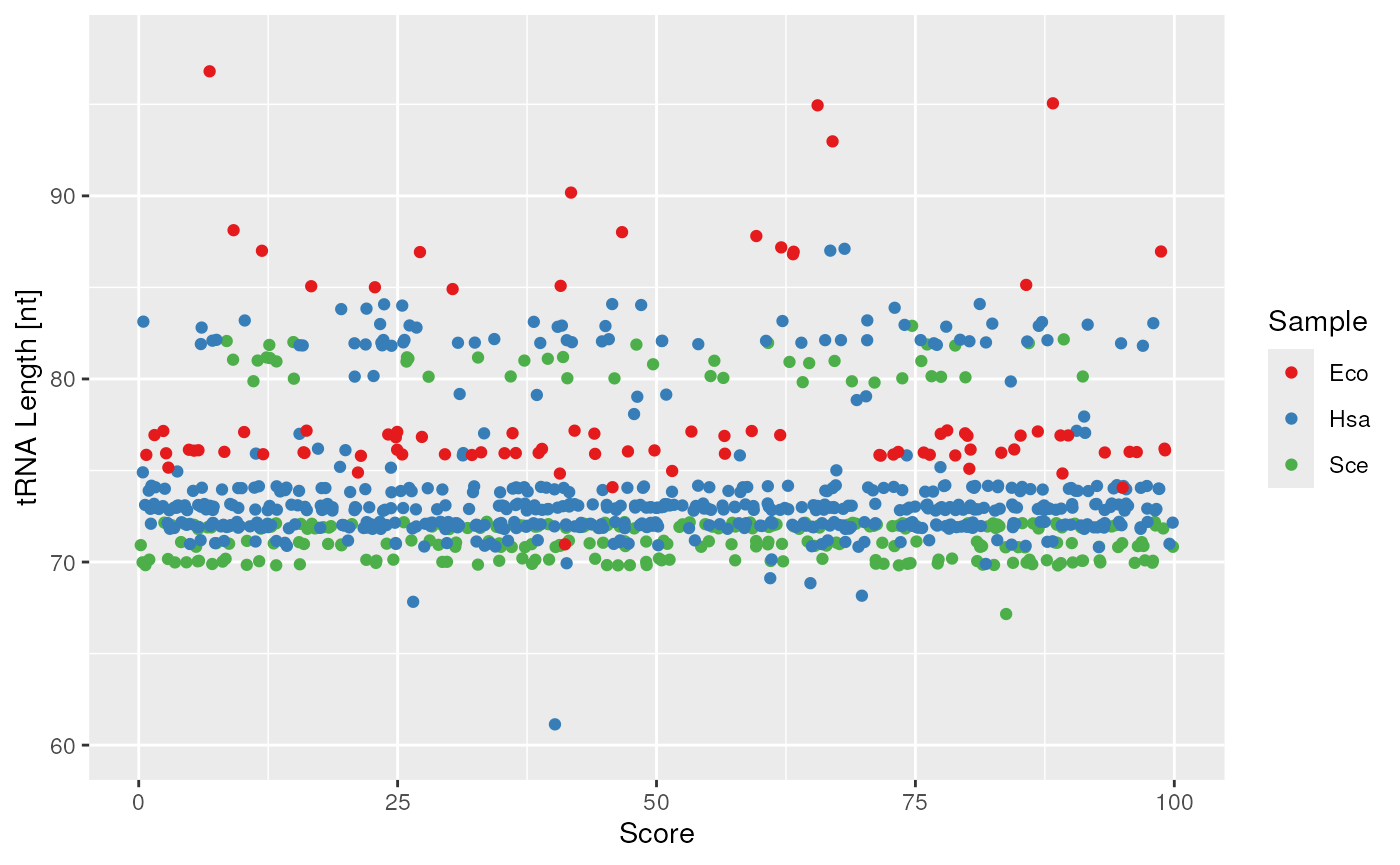
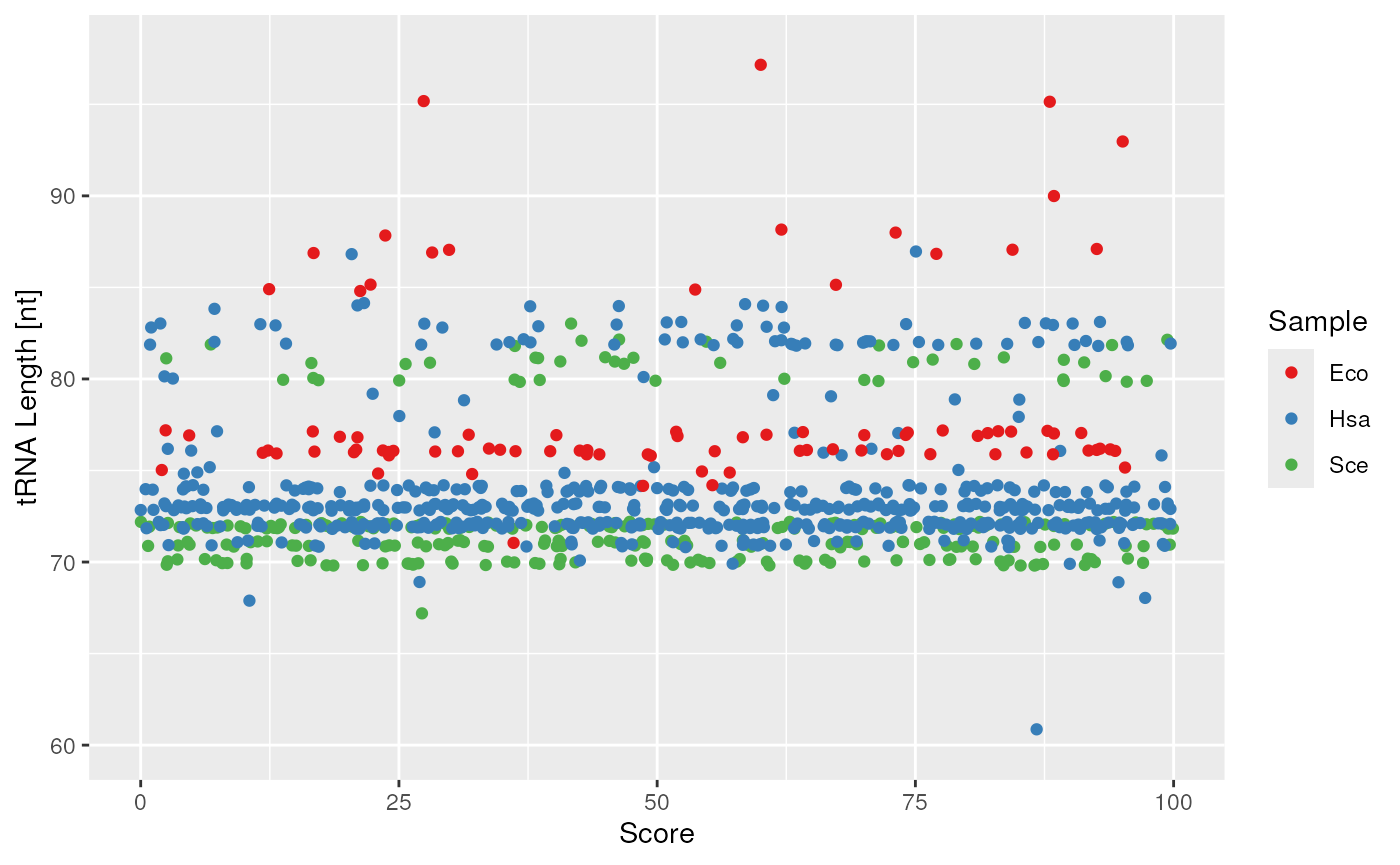
Deploying to gh-pages from @ FelixErnst/tRNA@2e08d8bc66e9186c6e1c1aacea5f577d63b1db6c 🚀

diff --git a/articles/tRNA.html b/articles/tRNA.html
@@ -334,13 +334,13 @@ Customized plot switching out the point and violin plot into a boxplot.
 <p>In addition, the data of the plots can be accessed directly.</p>
 <div class="sourceCode" id="cb22"><pre class="downlit sourceCode r">
 <code class="sourceCode R"><span><span class="fu"><a href="https://rdrr.io/r/utils/head.html" class="external-link">head</a></span><span class="op">(</span><span class="va">plots</span><span class="op">$</span><span class="va">length</span><span class="op">$</span><span class="va">data</span><span class="op">)</span></span></code></pre></div>
-<pre><code><span><span class="co">##    id value    score</span></span>
-<span><span class="co">## 1 Sce    71 88.46688</span></span>
-<span><span class="co">## 2 Sce    72 70.96746</span></span>
-<span><span class="co">## 3 Sce    80 11.07741</span></span>
-<span><span class="co">## 4 Sce    81 49.66890</span></span>
-<span><span class="co">## 5 Sce    82 60.77302</span></span>
-<span><span class="co">## 6 Sce    72 88.60789</span></span></code></pre>
+<pre><code><span><span class="co">##    id value     score</span></span>
+<span><span class="co">## 1 Sce    71 97.094242</span></span>
+<span><span class="co">## 2 Sce    72 37.264360</span></span>
+<span><span class="co">## 3 Sce    80 62.312282</span></span>
+<span><span class="co">## 4 Sce    81 38.220257</span></span>
+<span><span class="co">## 5 Sce    82  6.785602</span></span>
+<span><span class="co">## 6 Sce    72 78.777199</span></span></code></pre>
 </div>
 <div class="section level2">
 <h2 id="options">Options<a class="anchor" aria-label="anchor" href="#options"></a>

diff --git a/index.html b/index.html
@@ -128,8 +128,7 @@
 <div class="dev-status">
 <h2 data-toc-skip>Dev status</h2>
 <ul class="list-unstyled">
-<li><a href="https://github.com/FelixErnst/tRNA/actions/" class="external-link"><img src="https://github.com/FelixErnst/tRNA/workflows/R-CMD-check/badge.svg" alt="R-CMD-check"></a></li>
-<li><a href="https://travis-ci.com/FelixErnst/tRNA" class="external-link"><img src="https://travis-ci.com/FelixErnst/tRNA.svg?branch=master" alt="Build Status"></a></li>
+<li><a href="https://github.com/FelixErnst/tRNA/actions/" class="external-link"><img src="https://github.com/FelixErnst/tRNA/workflows/R-CMD-check-bioc-devel/badge.svg" alt="R-CMD-check"></a></li>
 <li><a href="http://bioconductor.org/checkResults/release/bioc-LATEST/tRNA/" class="external-link"><img src="https://bioconductor.org/shields/build/release/bioc/tRNA.svg" alt="BioC Build"></a></li>
 <li><a href="https://codecov.io/gh/FelixErnst/tRNA" class="external-link"><img src="https://codecov.io/gh/FelixErnst/tRNA/branch/master/graph/badge.svg" alt="codecov"></a></li>
 <li><a href="https://doi.org/doi:10.18129/B9.bioc.tRNA" class="external-link"><img src="https://bioconductor.org/shields/years-in-bioc/tRNA.svg" alt="BioC Years"></a></li>
